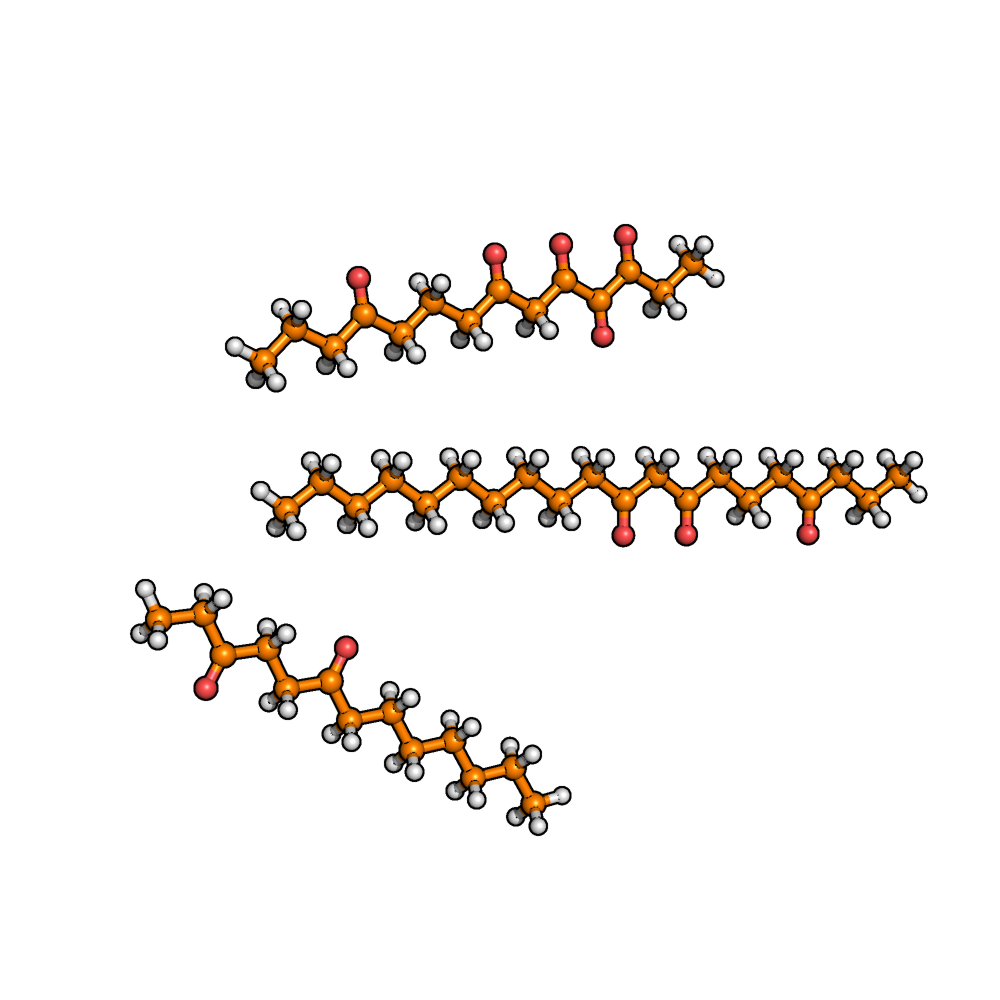
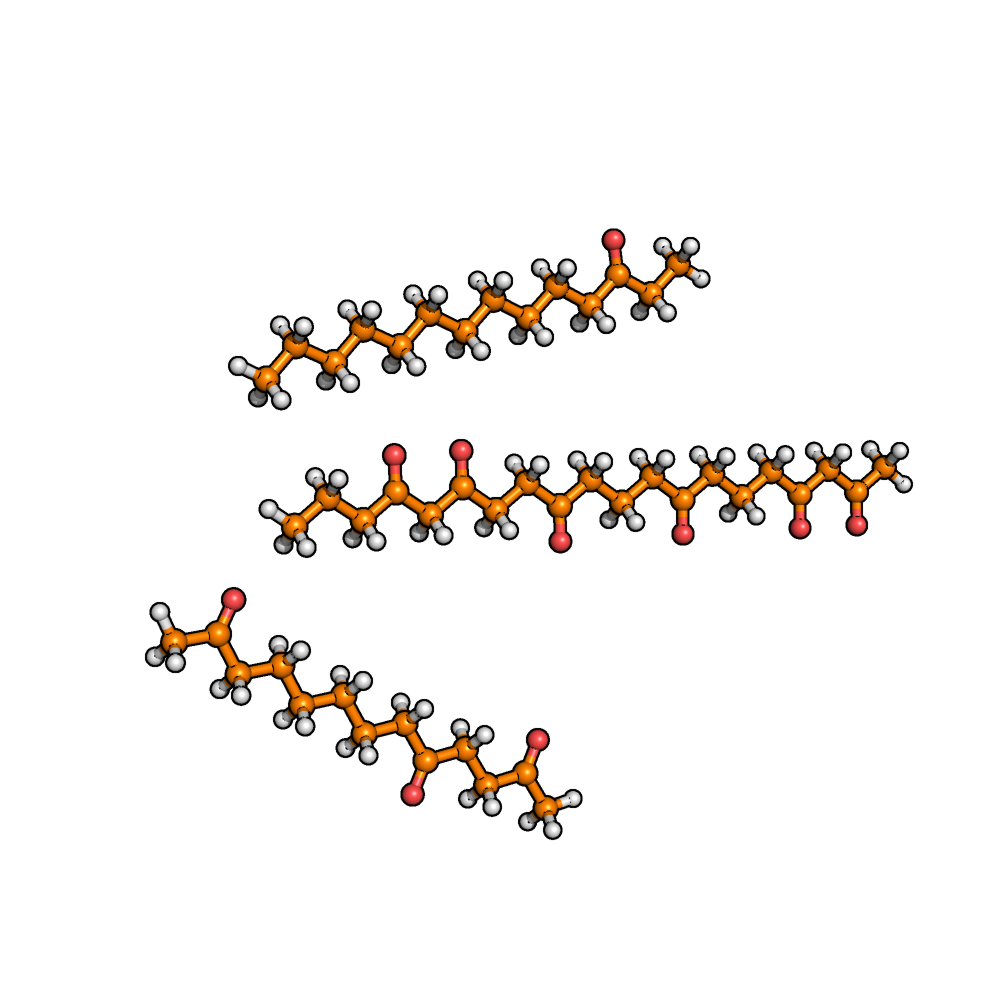
added option for surface functionalization of PE Adjusted readthedocs

Changed region(s): [[0.248, 0.434, 0.93, 0.558], [0.217, 0.217, 0.713, 0.434], [0.124, 0.558, 0.589, 0.837]]

diff --git a/polymer_analysis/src/MakroLyzer/modify_modules/FunctionalizePEsurface.py b/polymer_analysis/src/MakroLyzer/modify_modules/FunctionalizePEsurface.py
@@ -1,0 +1,113 @@
+import numpy as np
+import pytim
+import MDAnalysis as mda
+
+from MakroLyzer.modify_modules.structureModifierBase import StructureModifier
+from MakroLyzer import dictionaries
+
+class FunctionalizePEsurfaceModifier(StructureModifier):
+    """
+    A class for functionalizing polyethylene (PE) features. 
+    1. Replacing CH2 by CO
+    2. Replacing CH2 by NH
+    A number between 0 and 100 indicating the percentage of functionalization.
+    Inherits fron StructureModifier.
+    """
+    
+    def __init__(self, percentage, func_type, output_handler=None, box_size=None, alpha=5.0):
+        """
+        Initializes the FunctionalizePE class with the given percentage and functionalization type.
+
+        Args:
+            percentage (int): The percentage of functionalization (0-100).
+            func_type (str): The type of functionalization ('CO' or 'NH').
+        """
+        super().__init__(output_handler)
+        if func_type not in ['CO']:
+            raise ValueError("func_type must be 'CO'")
+        if not (0 <= percentage <= 100):
+            raise ValueError("percentage must be between 0 and 100")
+        
+        self.percentage = percentage
+        self.func_type = func_type
+        self.box_size = box_size
+        self.alpha = alpha
+        
+    def _find_surface_atoms(self, graph):
+        """
+        We use the gitim algorithm of pytim to identify the surface atoms of the polyethylene particle.
+    
+
+        Args:
+            graph (GraphManager): The graph to modify.
+        """
+        nodes, coords = graph.get_all_coordinates()
+        if len(nodes) == 0:
+            return []
+
+        elements = [graph.nodes[n]['element'] for n in nodes]
+        coords = np.asarray(coords, dtype=float)
+
+        u = mda.Universe.empty(len(nodes), trajectory=True)
+        u.add_TopologyAttr('name', elements)
+        u.add_TopologyAttr('type', elements)
+        u.add_TopologyAttr('ids', np.arange(1, len(nodes) + 1))
+        try:
+            u.add_TopologyAttr('elements', elements)
+        except Exception:
+            pass
+
+        if self.box_size is None:
+            min_coords = coords.min(axis=0)
+            max_coords = coords.max(axis=0)
+            padding = 2.0
+            dims = (max_coords - min_coords) + 2.0 * padding
+            dims = np.where(dims <= 0, 1.0, dims)
+            u.atoms.positions = coords - min_coords + padding
+        else:
+            if isinstance(self.box_size, (int, float)):
+                dims = np.array([self.box_size, self.box_size, self.box_size], dtype=float)
+            else:
+                dims = np.array(self.box_size, dtype=float)
+                if dims.size != 3:
+                    dims = np.array([dims[0], dims[0], dims[0]], dtype=float)
+            u.atoms.positions = coords
+
+        u.dimensions = [dims[0], dims[1], dims[2], 90.0, 90.0, 90.0]
+
+        interface = pytim.GITIM(
+            u,
+            group=u.atoms,
+            alpha=self.alpha,
+            molecular=False,
+            #radii_dict=dictionaries.dictVdW(),
+        )
+        if not interface.layers:
+            return []
+
+        surface_indices = interface.layers[0].indices
+        return [nodes[i] for i in surface_indices]
+        
+    def compute(self, graph):
+        """
+        Functionalizes the polyethylene surface of the given graph.
+        """
+        surface_nodes = self._find_surface_atoms(graph)
+        if not surface_nodes:
+            return graph
+
+        surface_graph = graph.subgraph(surface_nodes)
+        graph.functionalizePE(self.percentage, self.func_type, surfaceAtoms=surface_graph)
+        return graph
+
+    def render_output(self, graph, frame_idx):
+        """
+        Write graph xyz to file.
+
+        Args:
+            graph (GraphManager): The modified graph.
+            frame_idx (int): Current frame number.
+        """
+        NoNodes = graph.number_of_nodes()
+        header = f"{NoNodes}\nelement  x         y        z"
+        self.output_handler.write_output(header, graph) 

diff --git a/polymer_analysis/test/test_StructureModifiers.py b/polymer_analysis/test/test_StructureModifiers.py
@@ -10,6 +10,8 @@ from MakroLyzer import graphs
 
 from MakroLyzer.modify_modules.structureModifierBase import ModifyOutputHandler, StructureModifier
 from MakroLyzer.modify_modules.Patterns import PatternModifier
+from MakroLyzer.modify_modules.FunctionalizePE import FunctionalizePEModifier
+from MakroLyzer.modify_modules.FunctionalizePEsurface import FunctionalizePEsurfaceModifier
 
 # OutputHandler Tests # ------------------------------------------------------------------
 class TestModifyOutputHandler:
@@ -313,3 +315,55 @@ class TestFunctionalizePEModifier:
         mod.render_output(g, frame_idx=0)
         expected = f"5\nelement  x         y        z"
         mock_handler.write_output.assert_called_once_with(expected, g)
+
+# FunctionalizePEsurfaceModifier Tests # ------------------------------------------------------------------
+class TestFunctionalizePEsurfaceModifier:
+    """Tests for the FunctionalizePEsurfaceModifier."""
+
+    def test_FunctionalizePEsurfaceModifier_init(self):
+        pytest.importorskip("pytim")
+        pytest.importorskip("MDAnalysis")
+        handler = Mock()
+        mod = FunctionalizePEsurfaceModifier(20, 'CO', output_handler=handler, box_size=25.0)
+        assert mod.output_handler == handler
+        assert mod.frame_number == 0
+        assert mod.percentage == 20
+        assert mod.func_type == 'CO'
+        assert mod.box_size == 25.0
+
+    def test_FunctionalizePEsurfaceModifier_compute(self):
+        pytest.importorskip("pytim")
+        pytest.importorskip("MDAnalysis")
+        mod = FunctionalizePEsurfaceModifier(30, 'CO')
+        mock_graph = Mock()
+        surface_graph = Mock()
+        mock_graph.subgraph.return_value = surface_graph
+        with patch.object(mod, "_find_surface_atoms", return_value=[1, 2]):
+            res = mod.compute(mock_graph)
+        assert res is mock_graph
+        mock_graph.subgraph.assert_called_once_with([1, 2])
+        mock_graph.functionalizePE.assert_called_once_with(30, 'CO', surfaceAtoms=surface_graph)
+
+    def test_FunctionalizePEsurfaceModifier_find_surface_atoms(self):
+        pytest.importorskip("pytim")
+        pytest.importorskip("MDAnalysis")
+        from MakroLyzer.modify_modules import FunctionalizePEsurface as mod
+
+        g = graphs.GraphManager()
+        g.add_node(0, element='C', x=0.0, y=0.0, z=0.0)
+        g.add_node(1, element='H', x=1.0, y=0.0, z=0.0)
+        g.add_node(2, element='H', x=0.0, y=1.0, z=0.0)
+
+        class FakeLayer:
+            indices = np.array([0, 2])
+
+        class FakeInterface:
+            layers = [FakeLayer()]
+
+        def fake_gitim(*_args, **_kwargs):
+            return FakeInterface()
+
+        with patch.object(mod.pytim, "GITIM", side_effect=fake_gitim):
+            fmod = mod.FunctionalizePEsurfaceModifier(10, 'CO')
+            surface = fmod._find_surface_atoms(g)
+        assert surface == [0, 2]

diff --git a/polymer_analysis/src/MakroLyzer/graphs.py b/polymer_analysis/src/MakroLyzer/graphs.py
@@ -739,7 +739,7 @@ class GraphManager(nx.Graph):
         #else:
         #    raise ValueError("No new H atom can be added to the amide nitrogen.")
         
-    def functionalizePE(self, percentage, func_type):
+    def functionalizePE(self, percentage, func_type, surfaceAtoms=None):
         """
         Functionalize polyethylene (PE) features.
 
@@ -750,8 +750,11 @@ class GraphManager(nx.Graph):
         if func_type not in ['CO']:
             raise ValueError("func_type must be 'CO'.")
         
-        # Find all C atoms in the graph
-        C_nodes = [node for node in self.nodes if self.nodes[node]['element'] == 'C']
+        if surfaceAtoms:
+            C_nodes = [node for node in surfaceAtoms.nodes if surfaceAtoms.nodes[node]['element'] == 'C']
+        else:
+            # Find all C atoms in the graph
+            C_nodes = [node for node in self.nodes if self.nodes[node]['element'] == 'C']
         
         # Remove those with only one C-neighbor (chain ends)
         C_nodes = [node for node in C_nodes if sum(1 for neighbor in self.neighbors(node) if self.nodes[neighbor]['element'] == 'C') > 1]
@@ -763,11 +766,37 @@ class GraphManager(nx.Graph):
         np.random.shuffle(C_nodes)
         selected_C_nodes = C_nodes[:num_to_functionalize]
         
+        # If two selected C nodes are adjecent, switch if possible
+        selected_set = set(selected_C_nodes)
+        remaining = [node for node in C_nodes if node not in selected_set]
+
+        def has_selected_c_neighbor(node_id):
+            for neighbor in self.neighbors(node_id):
+                if self.nodes[neighbor]['element'] == 'C' and neighbor in selected_set:
+                    return True
+            return False
+
+        for idx, node in enumerate(selected_C_nodes):
+            if not has_selected_c_neighbor(node):
+                continue
+            replacement = None
+            for candidate in list(remaining):
+                if not has_selected_c_neighbor(candidate):
+                    replacement = candidate
+                    break
+            if replacement is None:
+                continue
+            selected_set.remove(node)
+            selected_set.add(replacement)
+            remaining.remove(replacement)
+            remaining.append(node)
+            selected_C_nodes[idx] = replacement
+        
         # For each selected C atom, add the functional group
         for node in selected_C_nodes:
             if func_type == 'CO':
                 self.add_CO_to_PE(node)
-                
+                           
     def add_CO_to_PE(self, node):
         """
         Add CO functional group to a polyethylene (PE) carbon atom.

diff --git a/polymer_analysis/src/MakroLyzer/modify_modules/modifier_registry.py b/polymer_analysis/src/MakroLyzer/modify_modules/modifier_registry.py
@@ -46,9 +46,21 @@ def create_functionalize_PE(args, **context):
     from MakroLyzer.modify_modules.FunctionalizePE import FunctionalizePEModifier
     return FunctionalizePEModifier(percentage, func_type, output_handler)
 
+def create_functionalize_PEsurf(args, **context):
+    val = args.get('functionalizePEsurface')
+    if val is None:
+        return None
+    percentage, func_type = val
+    out_file = args.get('functionalizePE_file') if args.get('functionalizePE_file') is not None else 'functionalizedPE.xyz'
+    output_handler = ModifyOutputHandler(out_file)
+    box_size = context.get('boxSize')
+    from MakroLyzer.modify_modules.FunctionalizePEsurface import FunctionalizePEsurfaceModifier
+    return FunctionalizePEsurfaceModifier(percentage, func_type, output_handler, box_size=box_size)
+
 
 MODIFIERS_REGISTRATION = {
     'functionalizePE': create_functionalize_PE,
+    'functionalizePEsurface': create_functionalize_PEsurf,    
     'patternFile': create_patterns,
     'AminoSaturation': create_AminoSaturation,
     'subgraphPrint': create_subgraph_print,

diff --git a/polymer_analysis/src/MakroLyzer/input_handling/readInput.py b/polymer_analysis/src/MakroLyzer/input_handling/readInput.py
@@ -202,6 +202,14 @@ def readCommandLine() -> dict:
                         type=functionalize)
     
     modifier_group.add_argument(
+                        '-funcPEsurf', '--functionalizePEsurface',
+                        nargs='?', const=(10, 'CO'), default=None,
+                        help='Functionalize Polyethylene (PE) surface CH2 groups with CO groups using pytim.\n'
+                        'Provide a percentage value (0-100) indicating the degree of functionalization.\n'
+                        'Usage example: -funcPEsurf 15:CO to functionalize 15%% of surface CH2 groups to CO groups.',
+                        type=functionalize)
+    
+    modifier_group.add_argument(
                         '-funcPE-file', '--functionalizePE-file',
                         nargs='?', const='functionalizedPE.xyz', default=None,
                         help='Output filename for functionalized polyethylene (default: functionalizedPE.xyz)')

diff --git a/polymer_analysis/src/MakroLyzer/input_handling/inputHandlingMain.py b/polymer_analysis/src/MakroLyzer/input_handling/inputHandlingMain.py
@@ -35,7 +35,7 @@ def main(args):
         
     # Check if args from modifier_group are called
     modifier_args = [
-        'functionalizePE', 'patternFile', 'saturation', 'subgraph_coords'
+        'functionalizePE', 'functionalizePEsurface', 'patternFile', 'saturation', 'subgraph_coords'
     ]
     if not any(arg in args and args[arg] is not None for arg in modifier_args):
         modifier = False

diff --git a/docs/source/structureModification/02bfunctionalizationSurface.rst b/docs/source/structureModification/02bfunctionalizationSurface.rst
@@ -1,0 +1,48 @@
+Polyethylene Surface Functionalization [1]_
+===========================================
+
+.. figure:: ../figures/structureModification/02bfuncPE3.png
+   :width: 800
+   :align: center
+
+This modifier functionalizes polyethylene (PE) surfaces by replacing selected CH2 units at
+the particle surface with CO groups. Surface atoms are identified using the GITIM algorithm
+from pytim [2]_ on an MDAnalysis universe [3]_. A random subset of eligible backbone carbons
+is chosen.
+End-group carbons are excluded.
+
+Command line
+------------
+.. line-block::
+  ``-funcPEsurf percentage:CO``
+  ``--functionalizePEsurface``
+      Functionalize PE surface by replacing CH2 groups with CO groups.
+      ``percentage`` is an integer from 0 to 100.
+
+  ``-funcPE-file``
+  ``--functionalizePE-file``
+      Output filename.
+      *Default: functionalizedPE.xyz*
+
+Example
+^^^^^^^
+.. code-block:: bash
+
+   MakroLyzer -xyz PE.xyz -funcPEsurf 15:CO -funcPE-file PE_CO.xyz
+
+Notes
+-----
+- Only ``CO`` functionalization is supported so far.
+- Chain-end carbons (with only one carbon neighbor) are excluded.
+
+Output
+------
+An XYZ file containing the modified structure.
+
+
+.. [1]  Drysch, K.; Dawer, Y.; Zaby, P.; Buchmüller, K.; Dick, L.; Mutzel, P.; Hollóczki, O.; Kirchner, B. MakroLyzer: A Graph-Based Software to Comb through Molecular Hairballs Using the Example of Nanoplastics. J. Phys. Chem. B 2025
+       DOI: 10.1021/acs.jpcb.5c06175
+.. [2]  Sega, M.; Kantorovich, S.; Jedlovszky, P.; Jorge, M. A generalized identification of truly interfacial molecules (GITIM). J. Chem. Phys. 2013, 138, 044110.
+       DOI: 10.1063/1.4774361
+.. [3]  Michaud-Agrawal, N.; Denning, E. J.; Woolf, T. B.; Beckstein, O. MDAnalysis: A toolkit for the analysis of molecular dynamics simulations. J. Comput. Chem. 2011, 32, 2319-2327.
+       DOI: 10.1002/jcc.21787

diff --git a/docs/source/01_Installation.rst b/docs/source/01_Installation.rst
@@ -63,7 +63,7 @@ A user guide for venv can be found `here <https://docs.python.org/3/library/venv
 
 
 Install MakroLyzer
-=================
+==================
 After activating the virtual environment, install the dependencies using pip.
 Make sure you are in the ``polymer_analysis`` directory of the cloned repository.
 

diff --git a/docs/source/index.rst b/docs/source/index.rst
@@ -46,5 +46,6 @@ The program has two main functionalities:
 
    structureModification/01patternID.rst
    structureModification/02functionalization.rst
+   structureModification/02bfunctionalizationSurface.rst
    structureModification/03saturation.rst
    structureModification/04subgraphCoords.rst

diff --git a/docs/source/structureModification/02functionalization.rst b/docs/source/structureModification/02functionalization.rst
@@ -7,6 +7,7 @@ Polyethylene Functionalization [1]_
 
 This modifier functionalizes polyethylene (PE) by replacing selected CH2 units with
 CO groups. A random subset of eligible backbone carbons is chosen.
+End-group carbons are excluded.
 
 Command line
 ------------
